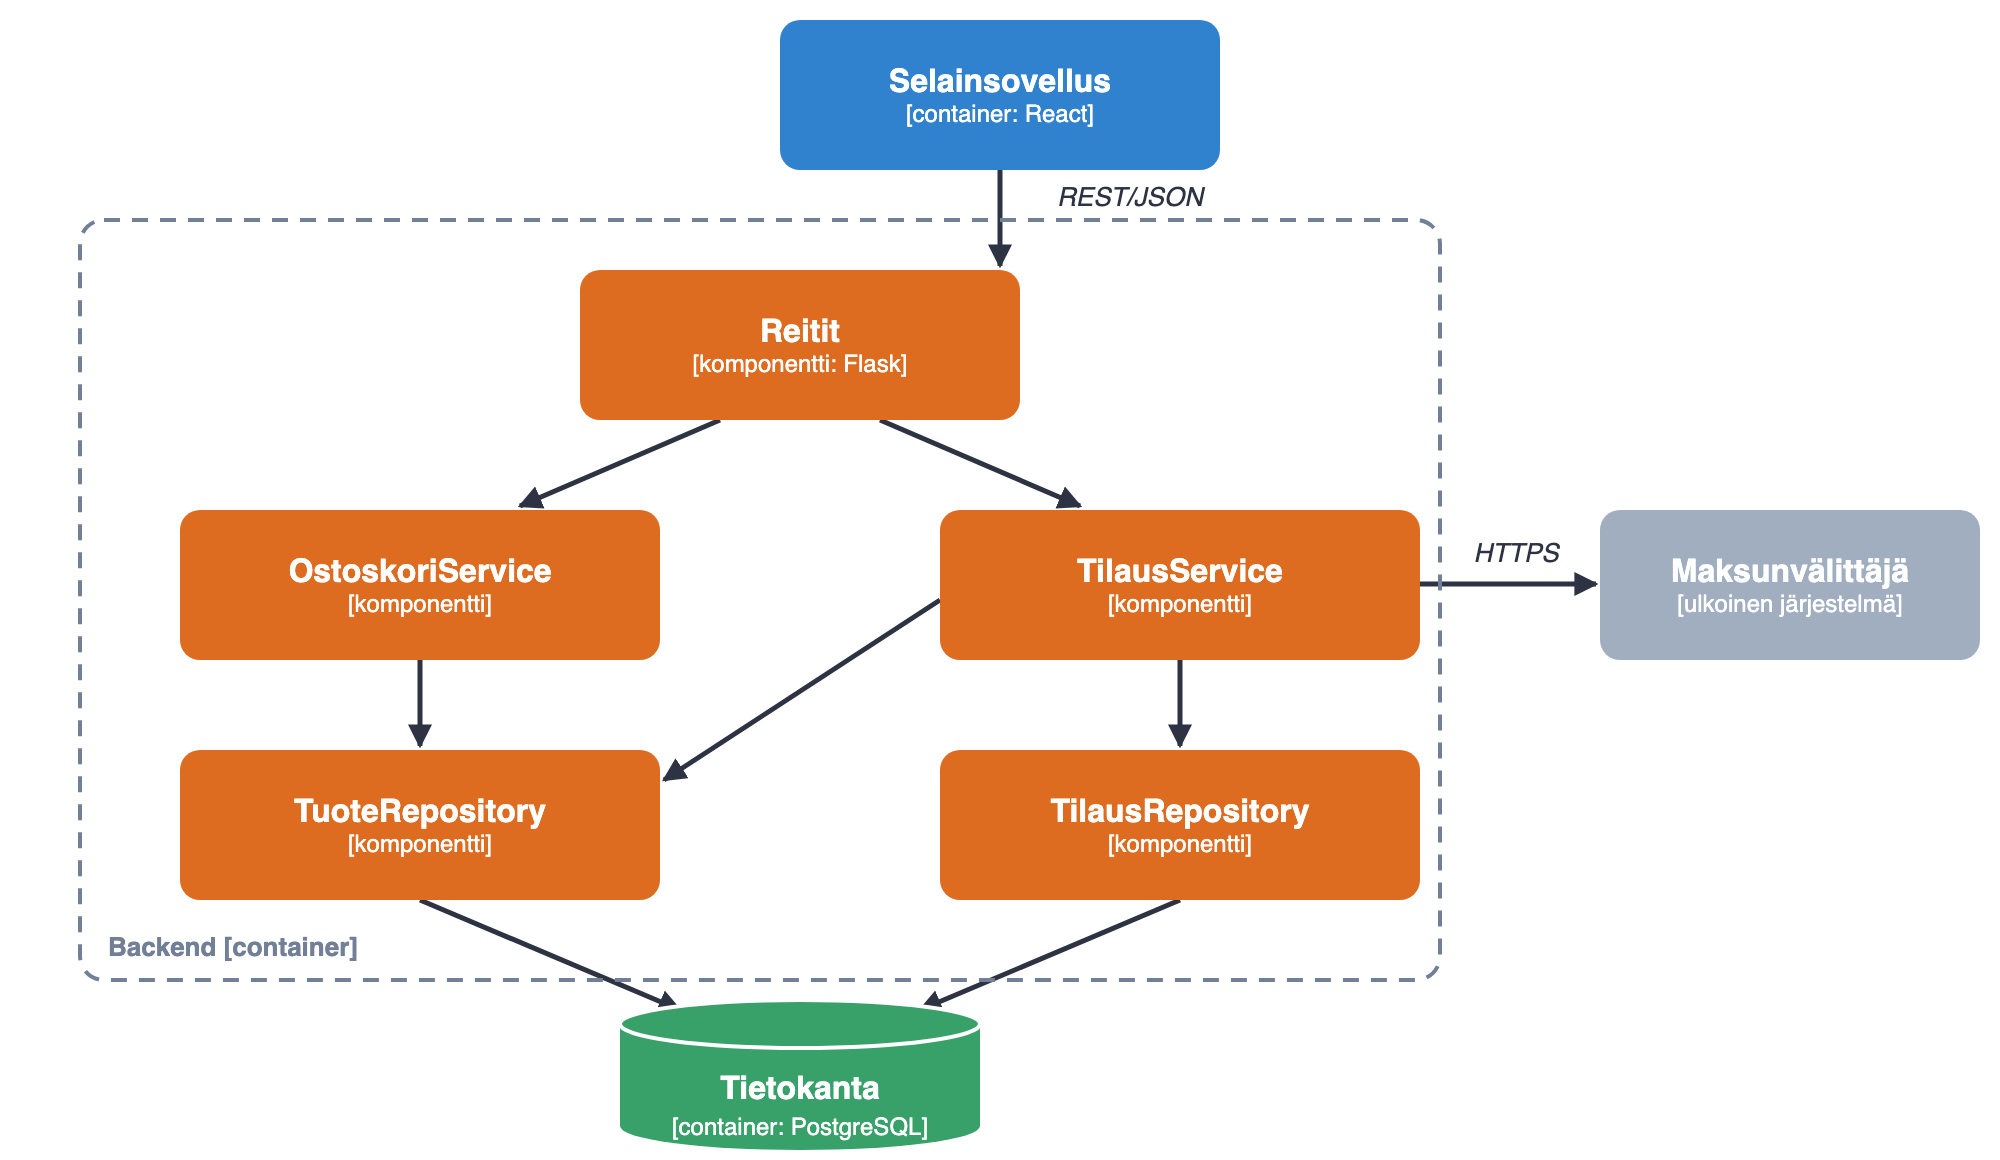
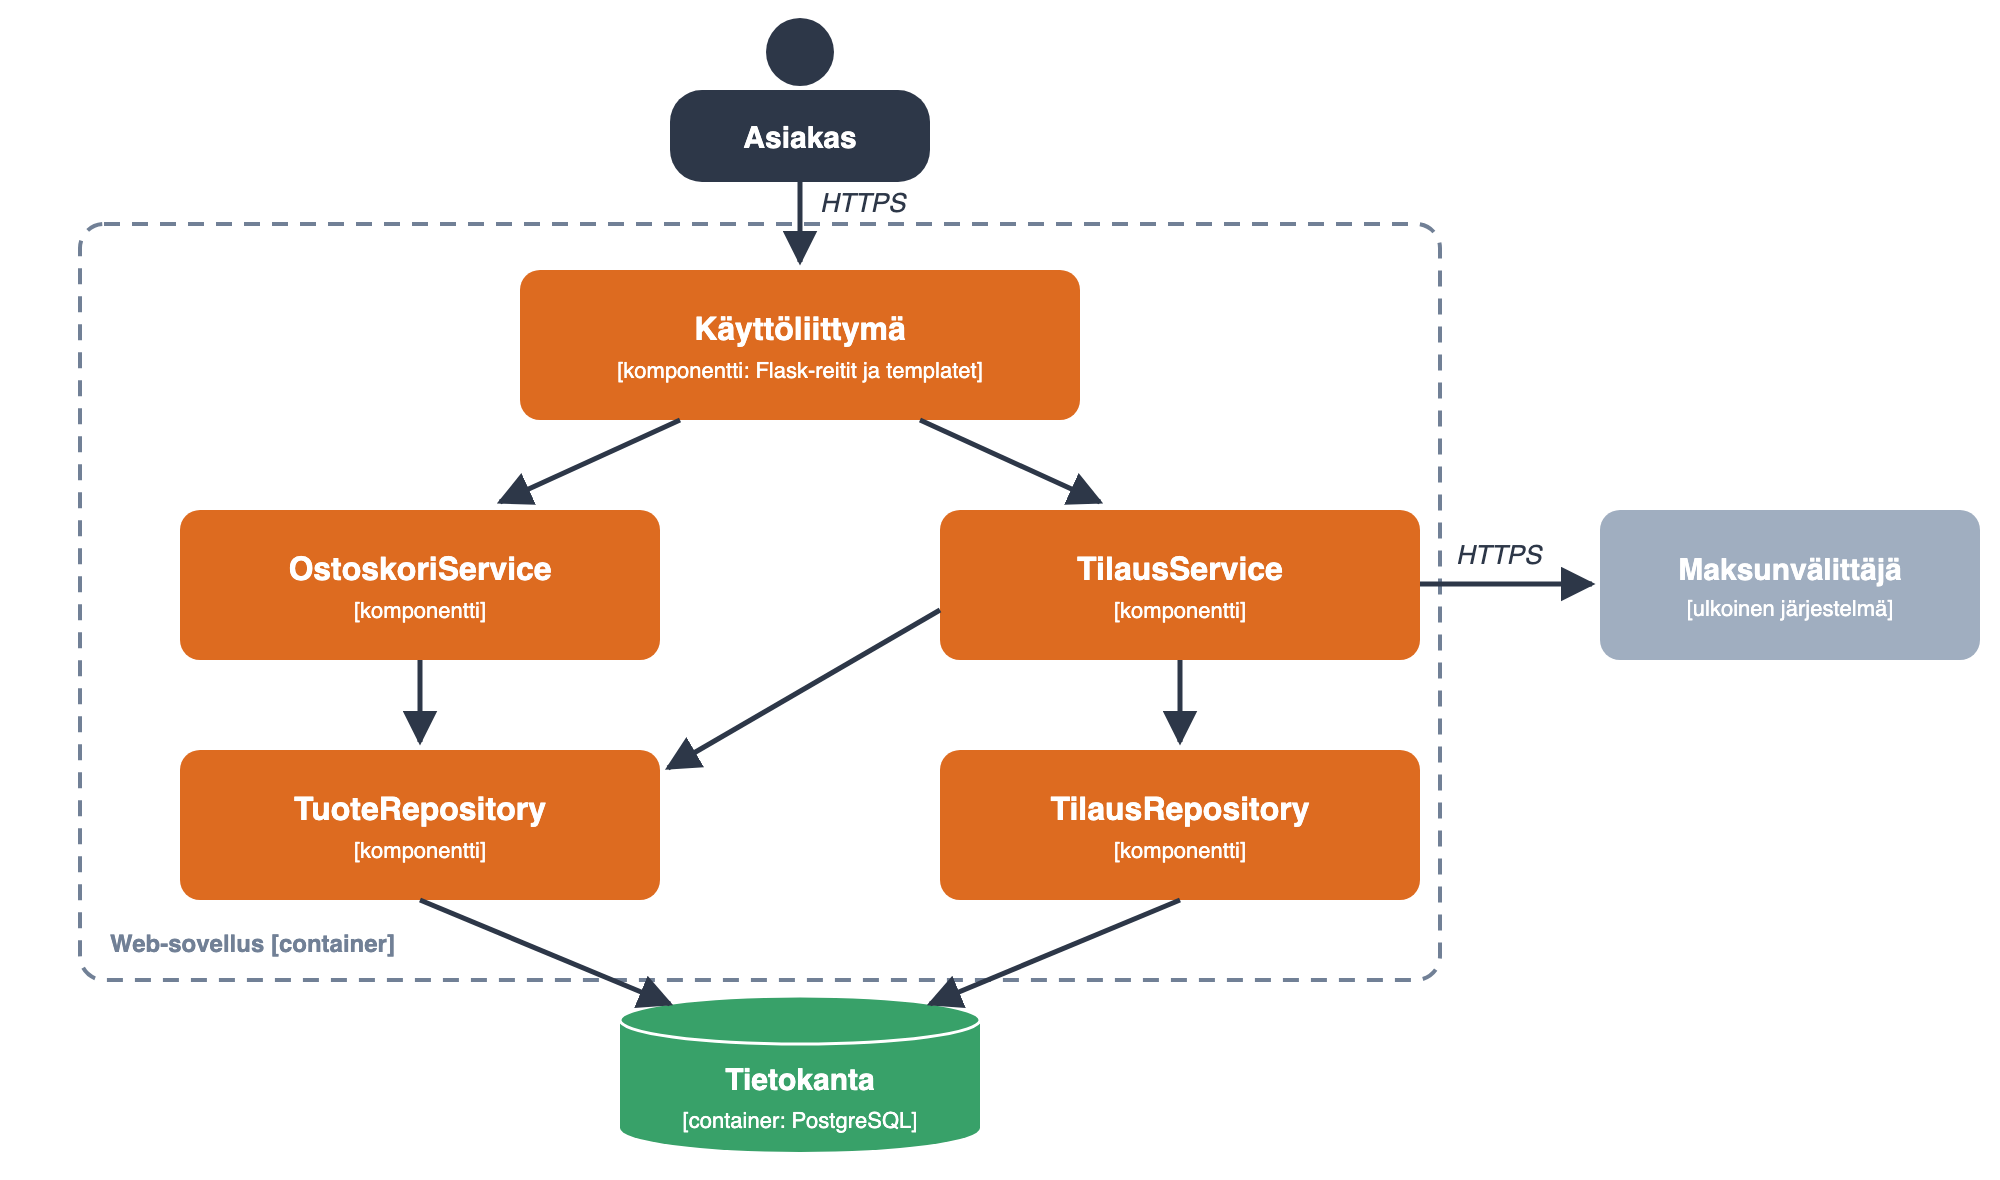
C4-kaaviot: verkkokauppa Flask-web-sovelluksena

diff --git a/8.md b/8.md
@@ -114,7 +114,7 @@
 
 ![](./images/c4-komponentit.png){ width=330 }
 
-- Komponentit (components): yhden containerin (backend) sisäinen rakenne
+- Komponentit (components): yhden containerin (web-sovellus) sisäinen rakenne
 
 # Arkkitehtuuripäätösten kirjaaminen
 
